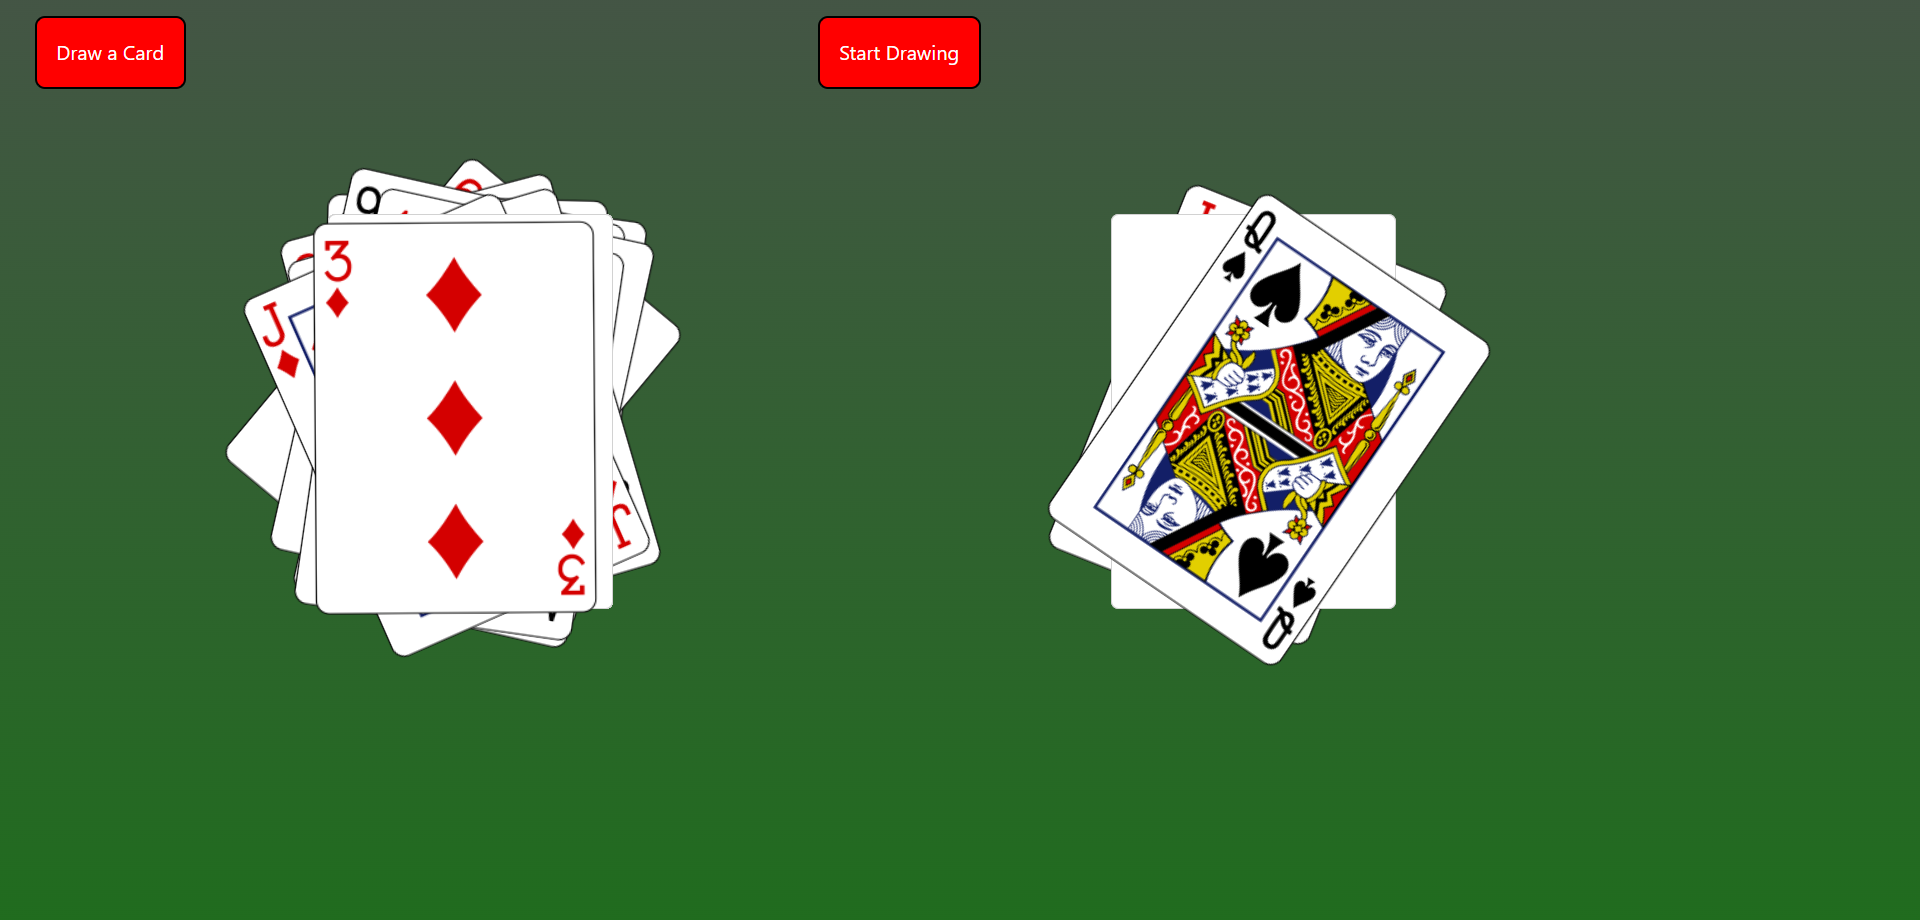
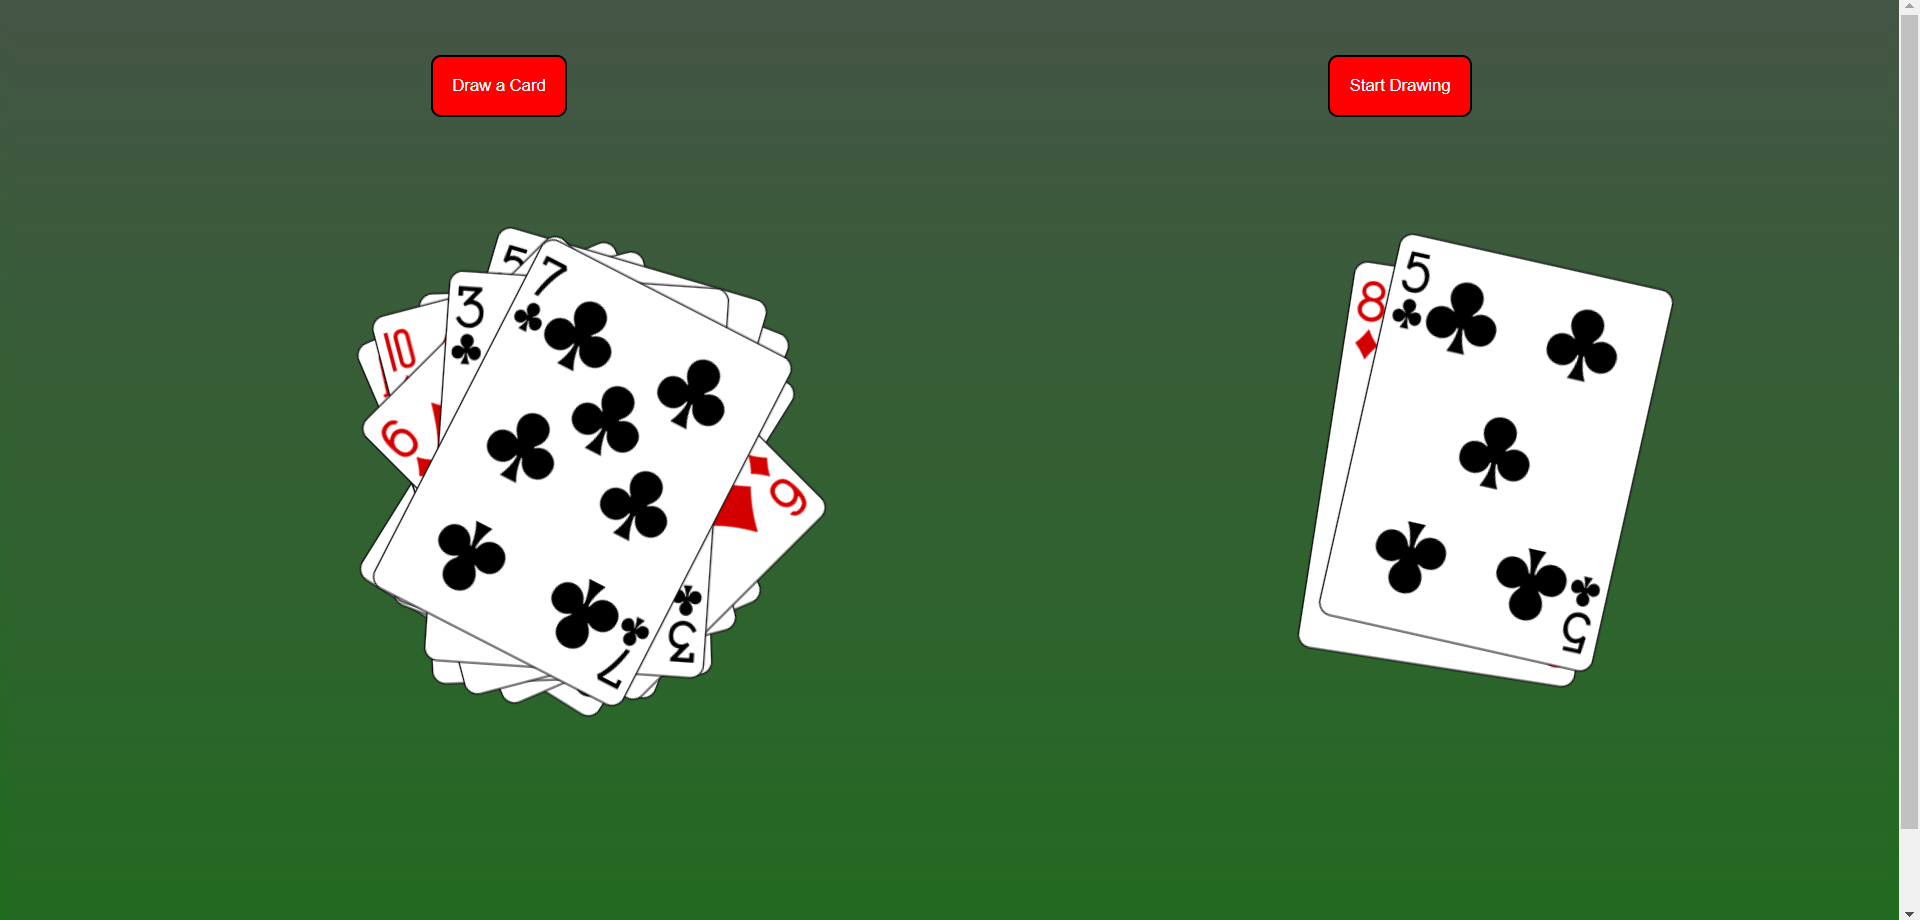
improved CSS

diff --git a/src/App.js b/src/App.js
@@ -1,26 +1,10 @@
 import React from 'react';
-import DrawCard from './Deck';
-import KeepDrawingCard from './KeepDrawingCard';
-import 'bootstrap/dist/css/bootstrap.min.css';
-import Container from 'react-bootstrap/Container';
-import Row from 'react-bootstrap/Row';
-import Col from 'react-bootstrap/Col';
+import CardTable from "./CardTable";
 
 function App() {
 	return (
 		<div className="App">
-			<section className="block">
-				<Container fluid>
-					<Row>
-						<Col sm={5}>
-							<DrawCard />
-						</Col>
-						<Col sm={5}>
-							<KeepDrawingCard />
-						</Col>
-					</Row>
-				</Container>
-			</section>
+			<CardTable />
 		</div>
 	);
 }

diff --git a/src/CardTable.js b/src/CardTable.js
@@ -1,0 +1,19 @@
+import React from "react";
+import "./CardTable.css";
+import DrawCard from './Deck';
+import KeepDrawingCard from './KeepDrawingCard';
+
+/* Main component. Renders card lists for
+ * playing cards and pokemon. */
+function CardTable() {
+  return (
+    <div className="CardTable">
+      <main>
+        <DrawCard />
+        <KeepDrawingCard />
+      </main>
+    </div>
+  );
+}
+
+export default CardTable;

diff --git a/src/Deck.css b/src/Deck.css
@@ -1,3 +1,9 @@
+.Single-card-drawer-area, .Toggle-card-drawer-area {
+    flex: 1;
+    flex-direction: column;
+    margin: 10px;
+}
+
 .Card-area-one, .Card-area-two {
     display: grid;
     grid-template-columns: 1fr;
@@ -7,6 +13,7 @@
 	padding: 1.25em;
     text-align: center;
     margin-top: 5rem;
+    flex: 1;
 }
 
 .toggler, .card-drawer {

diff --git a/src/KeepDrawingCard.js b/src/KeepDrawingCard.js
@@ -52,7 +52,7 @@ const KeepDrawingCard = () => {
 	}
 
 	return (
-		<div>
+		<div className='Toggle-card-drawer-area'>
 			{remaining === 0 ? (
 				alert('Error: no cards remaining!')
 			) : (

diff --git a/src/Deck.js b/src/Deck.js
@@ -31,7 +31,7 @@ const DrawCard = () => {
 	}
 
 	return (
-		<div>
+		<div className='Single-card-drawer-area'>
 			{remaining === 0 ? (
 				alert('Error: no cards remaining!')
 			) : (

diff --git a/src/CardTable.css b/src/CardTable.css
@@ -1,0 +1,13 @@
+.CardTable {
+	text-align: center;
+	flex-direction: column;
+	width: 100%;
+	display: flex;
+}
+
+.CardTable > main {
+	display: flex;
+	width: 100%;
+	flex: 1;
+}
+
